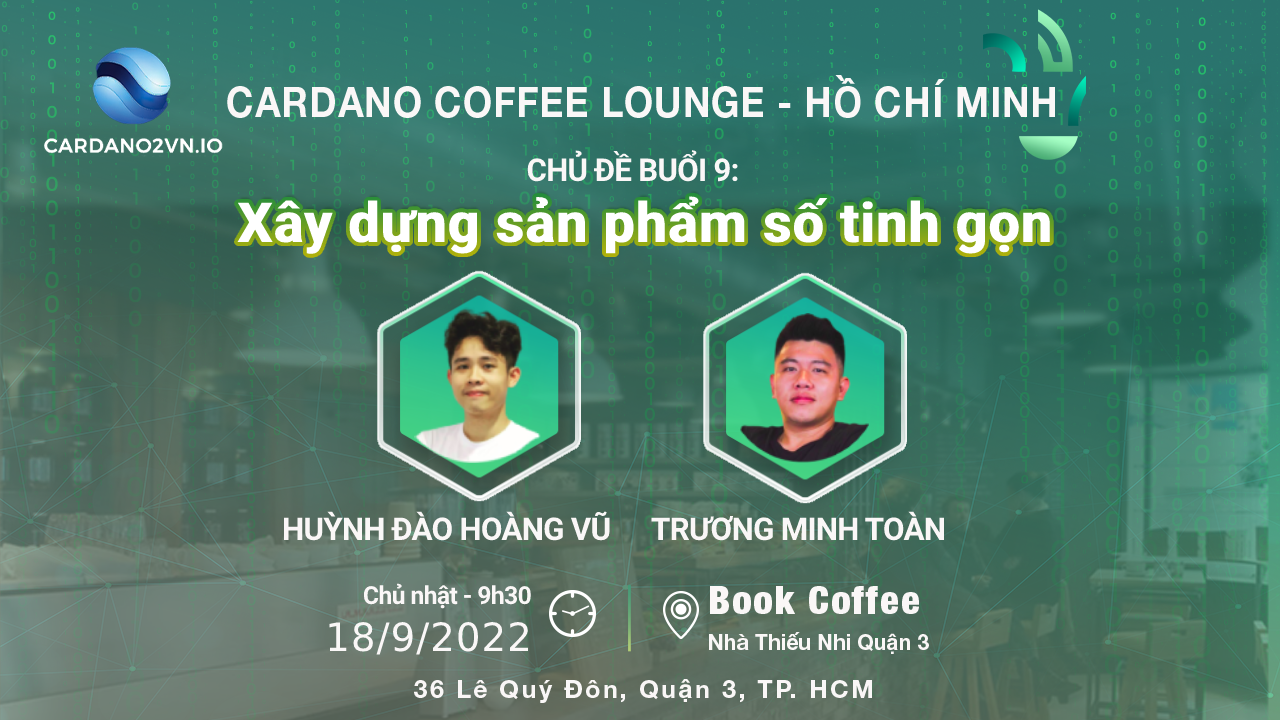
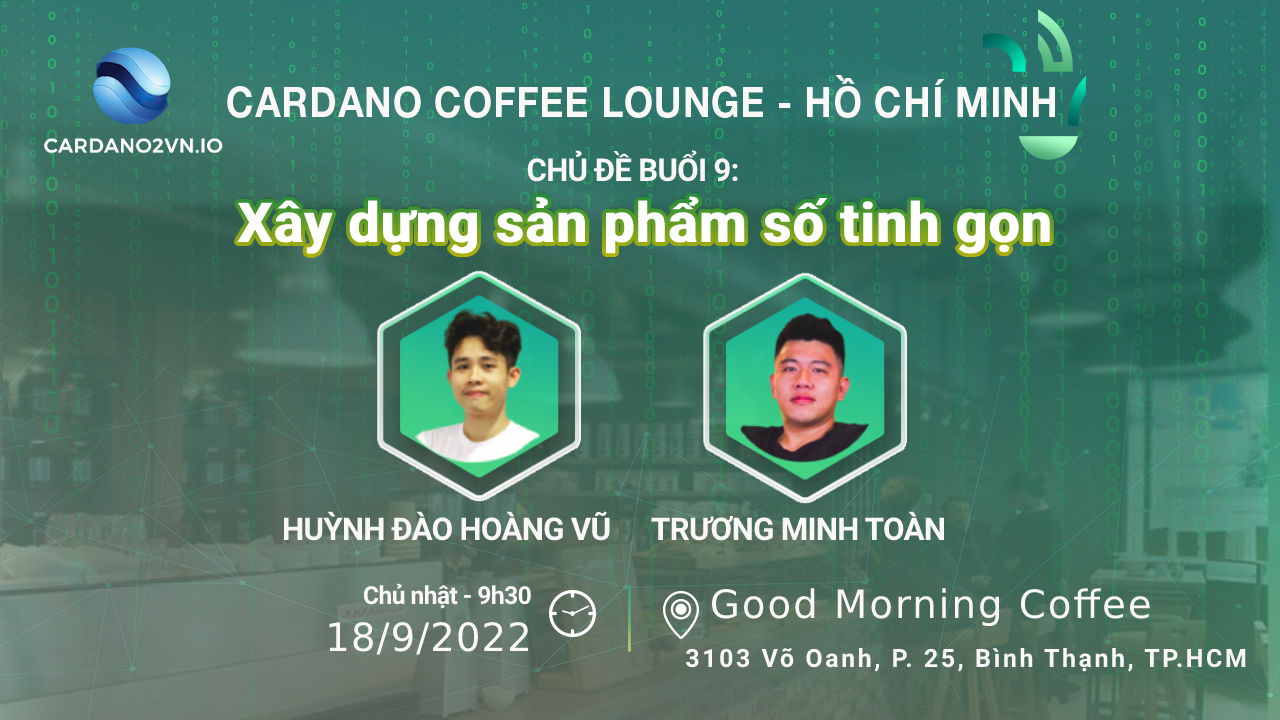
update even

Changed region(s): [[0.3125, 0.7944, 0.9688, 0.9778]]

diff --git a/docs/events/even-HCM.md b/docs/events/even-HCM.md
@@ -12,7 +12,7 @@
 
 📣Thời gian: 9h30, Chủ Nhật, 18/9/2022
        
-📣 Địa điểm: Book Coffee – Nhà Thiếu Nhi Quận 3 - 36 Lê Quý Đôn, Quận 3, Thành phố Hồ Chí Minh [map tại đây](https://goo.gl/maps/TJf8ESJQH4KwRaaq9).
+📣 Địa điểm: **Good Morning Coffee**: 103 Võ Oanh, Phường 25, Bình Thạnh, Thành phố Hồ Chí Minh 72308 [map tại đây](https://www.google.com/maps/place/Good+Morning+Coffee/@10.7990618,106.6918531,13.5z/data=!4m5!3m4!1s0x0:0xfeefd404550f6b67!8m2!3d10.8041902!4d106.7161699).
 
 📣Để phục vụ bạn được tốt nhất (Miễn phí nước uống), vui lòng đăng ký 👉  [theo biểu mẫu sau đây](https://forms.gle/GooGW2cGpVEdhXHX9) trước 17:00 ngày 17/9/2022.
 
